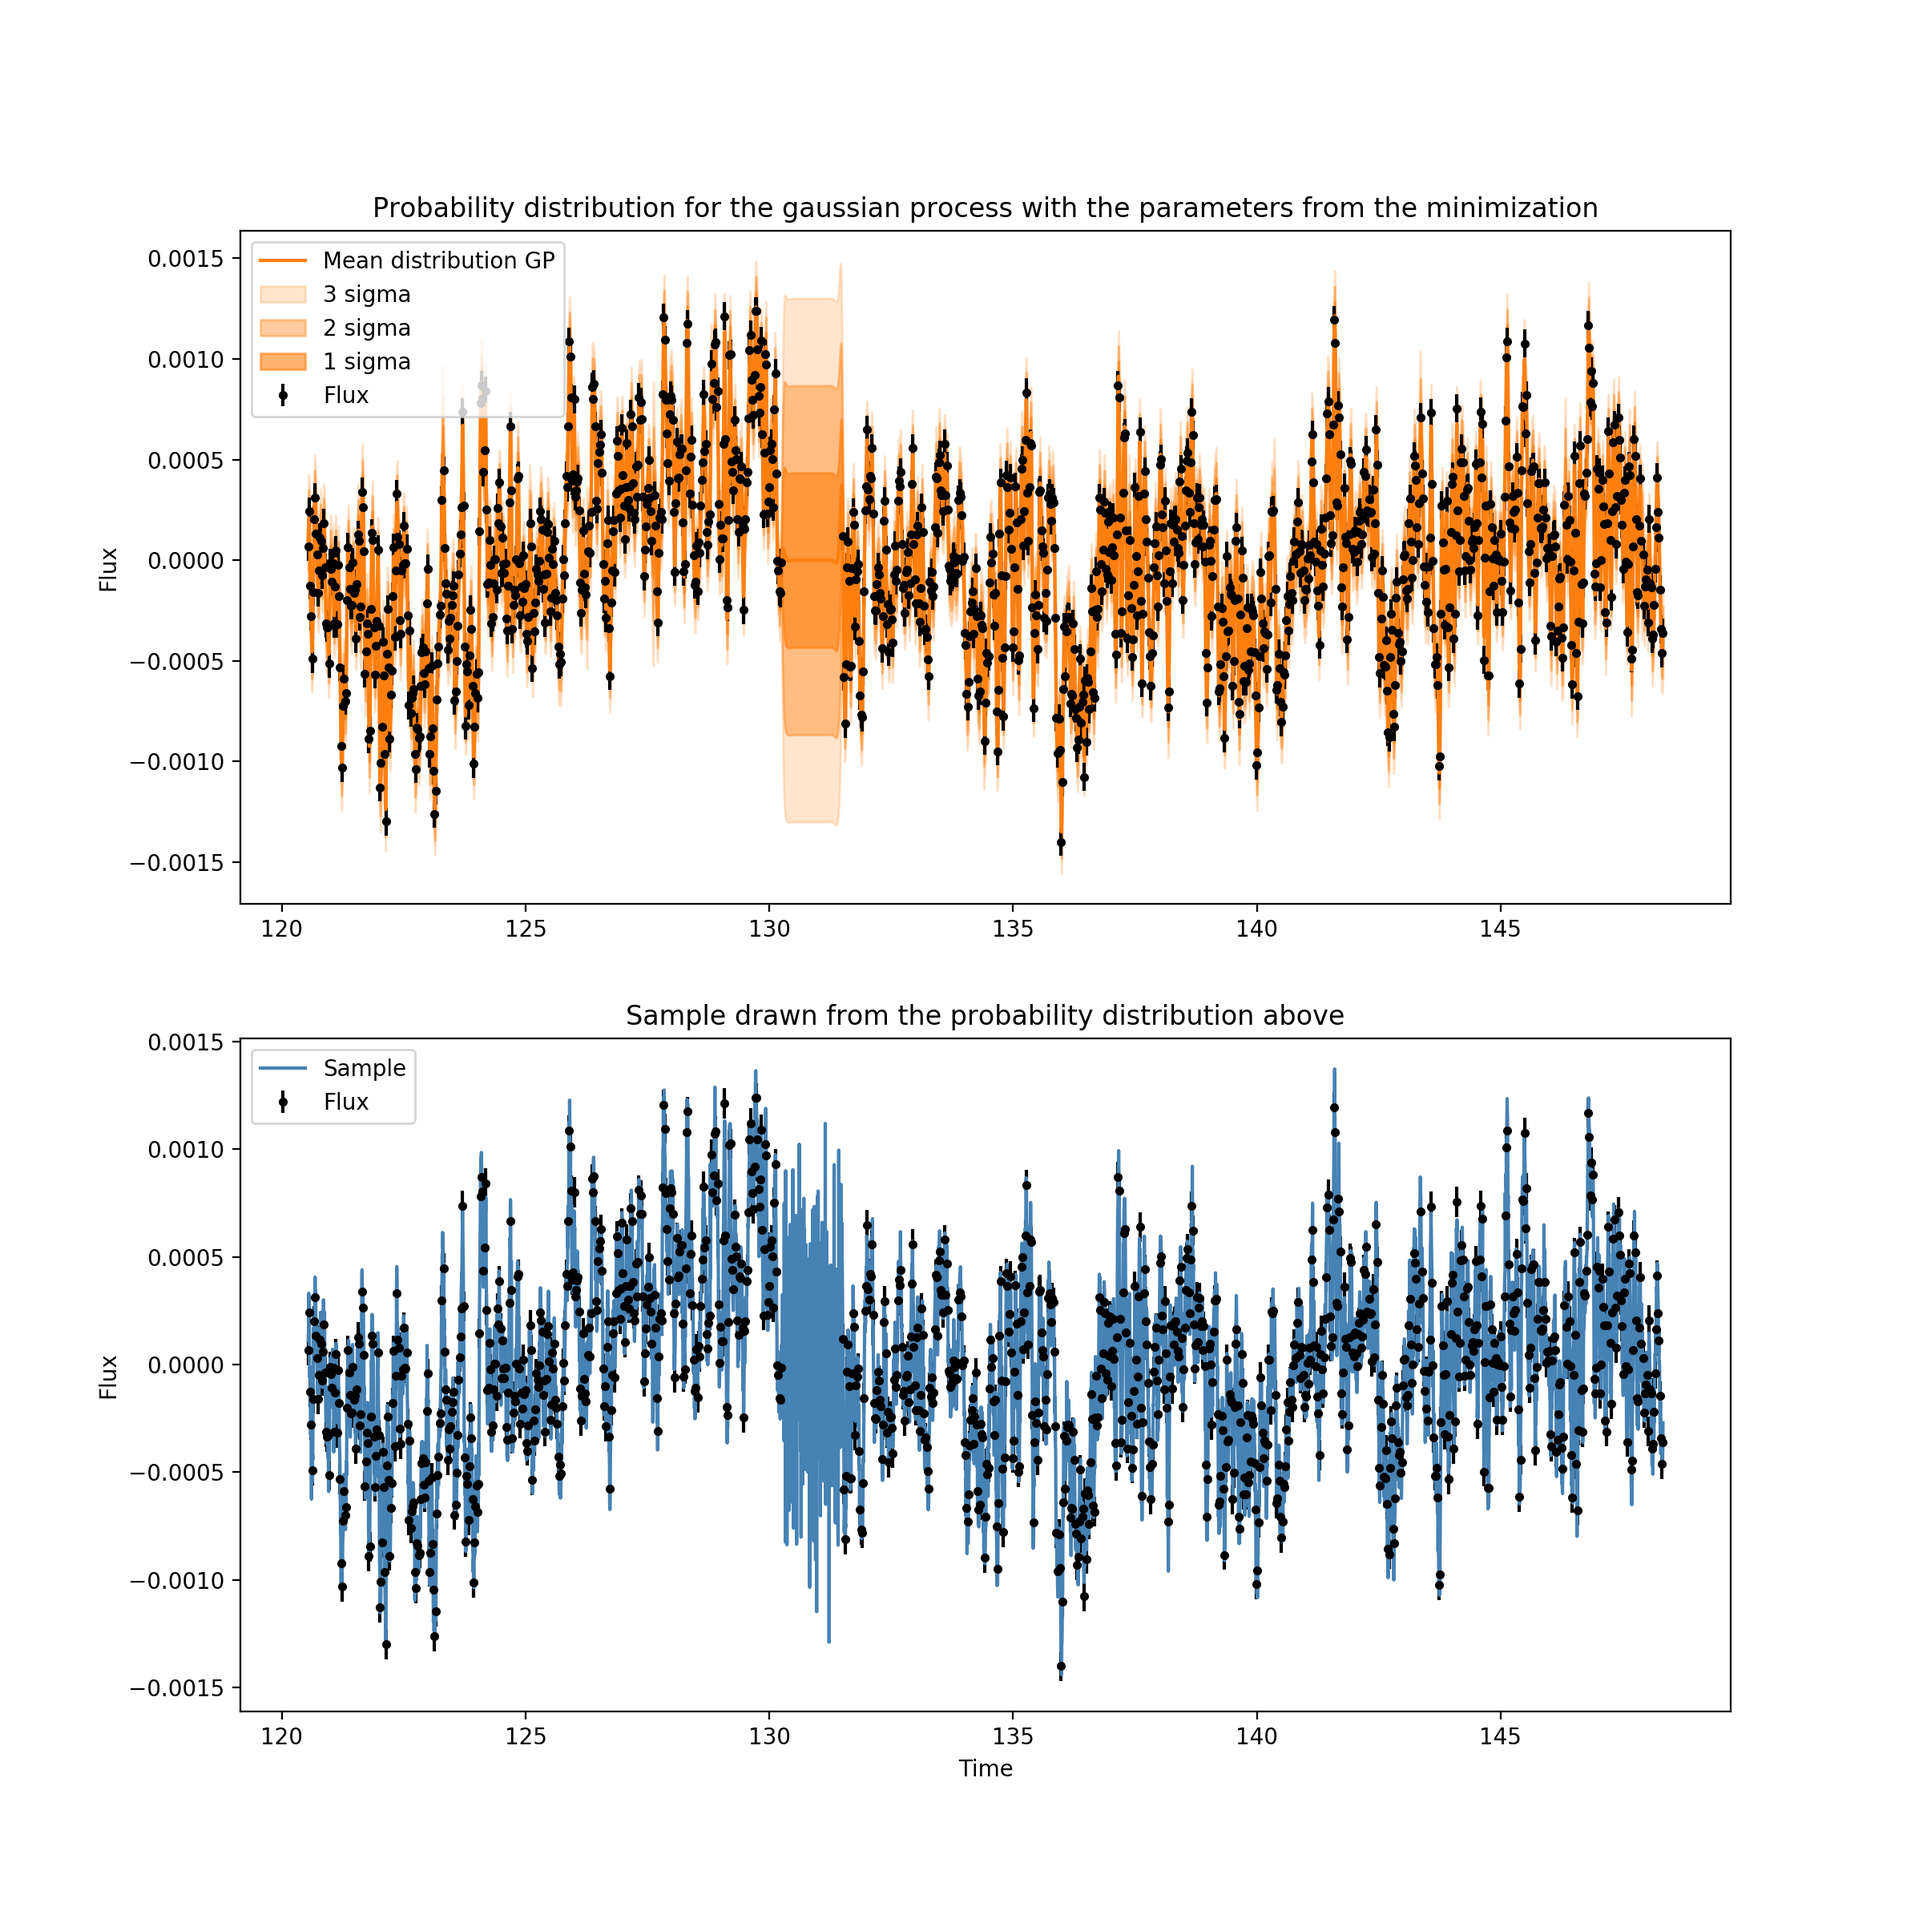
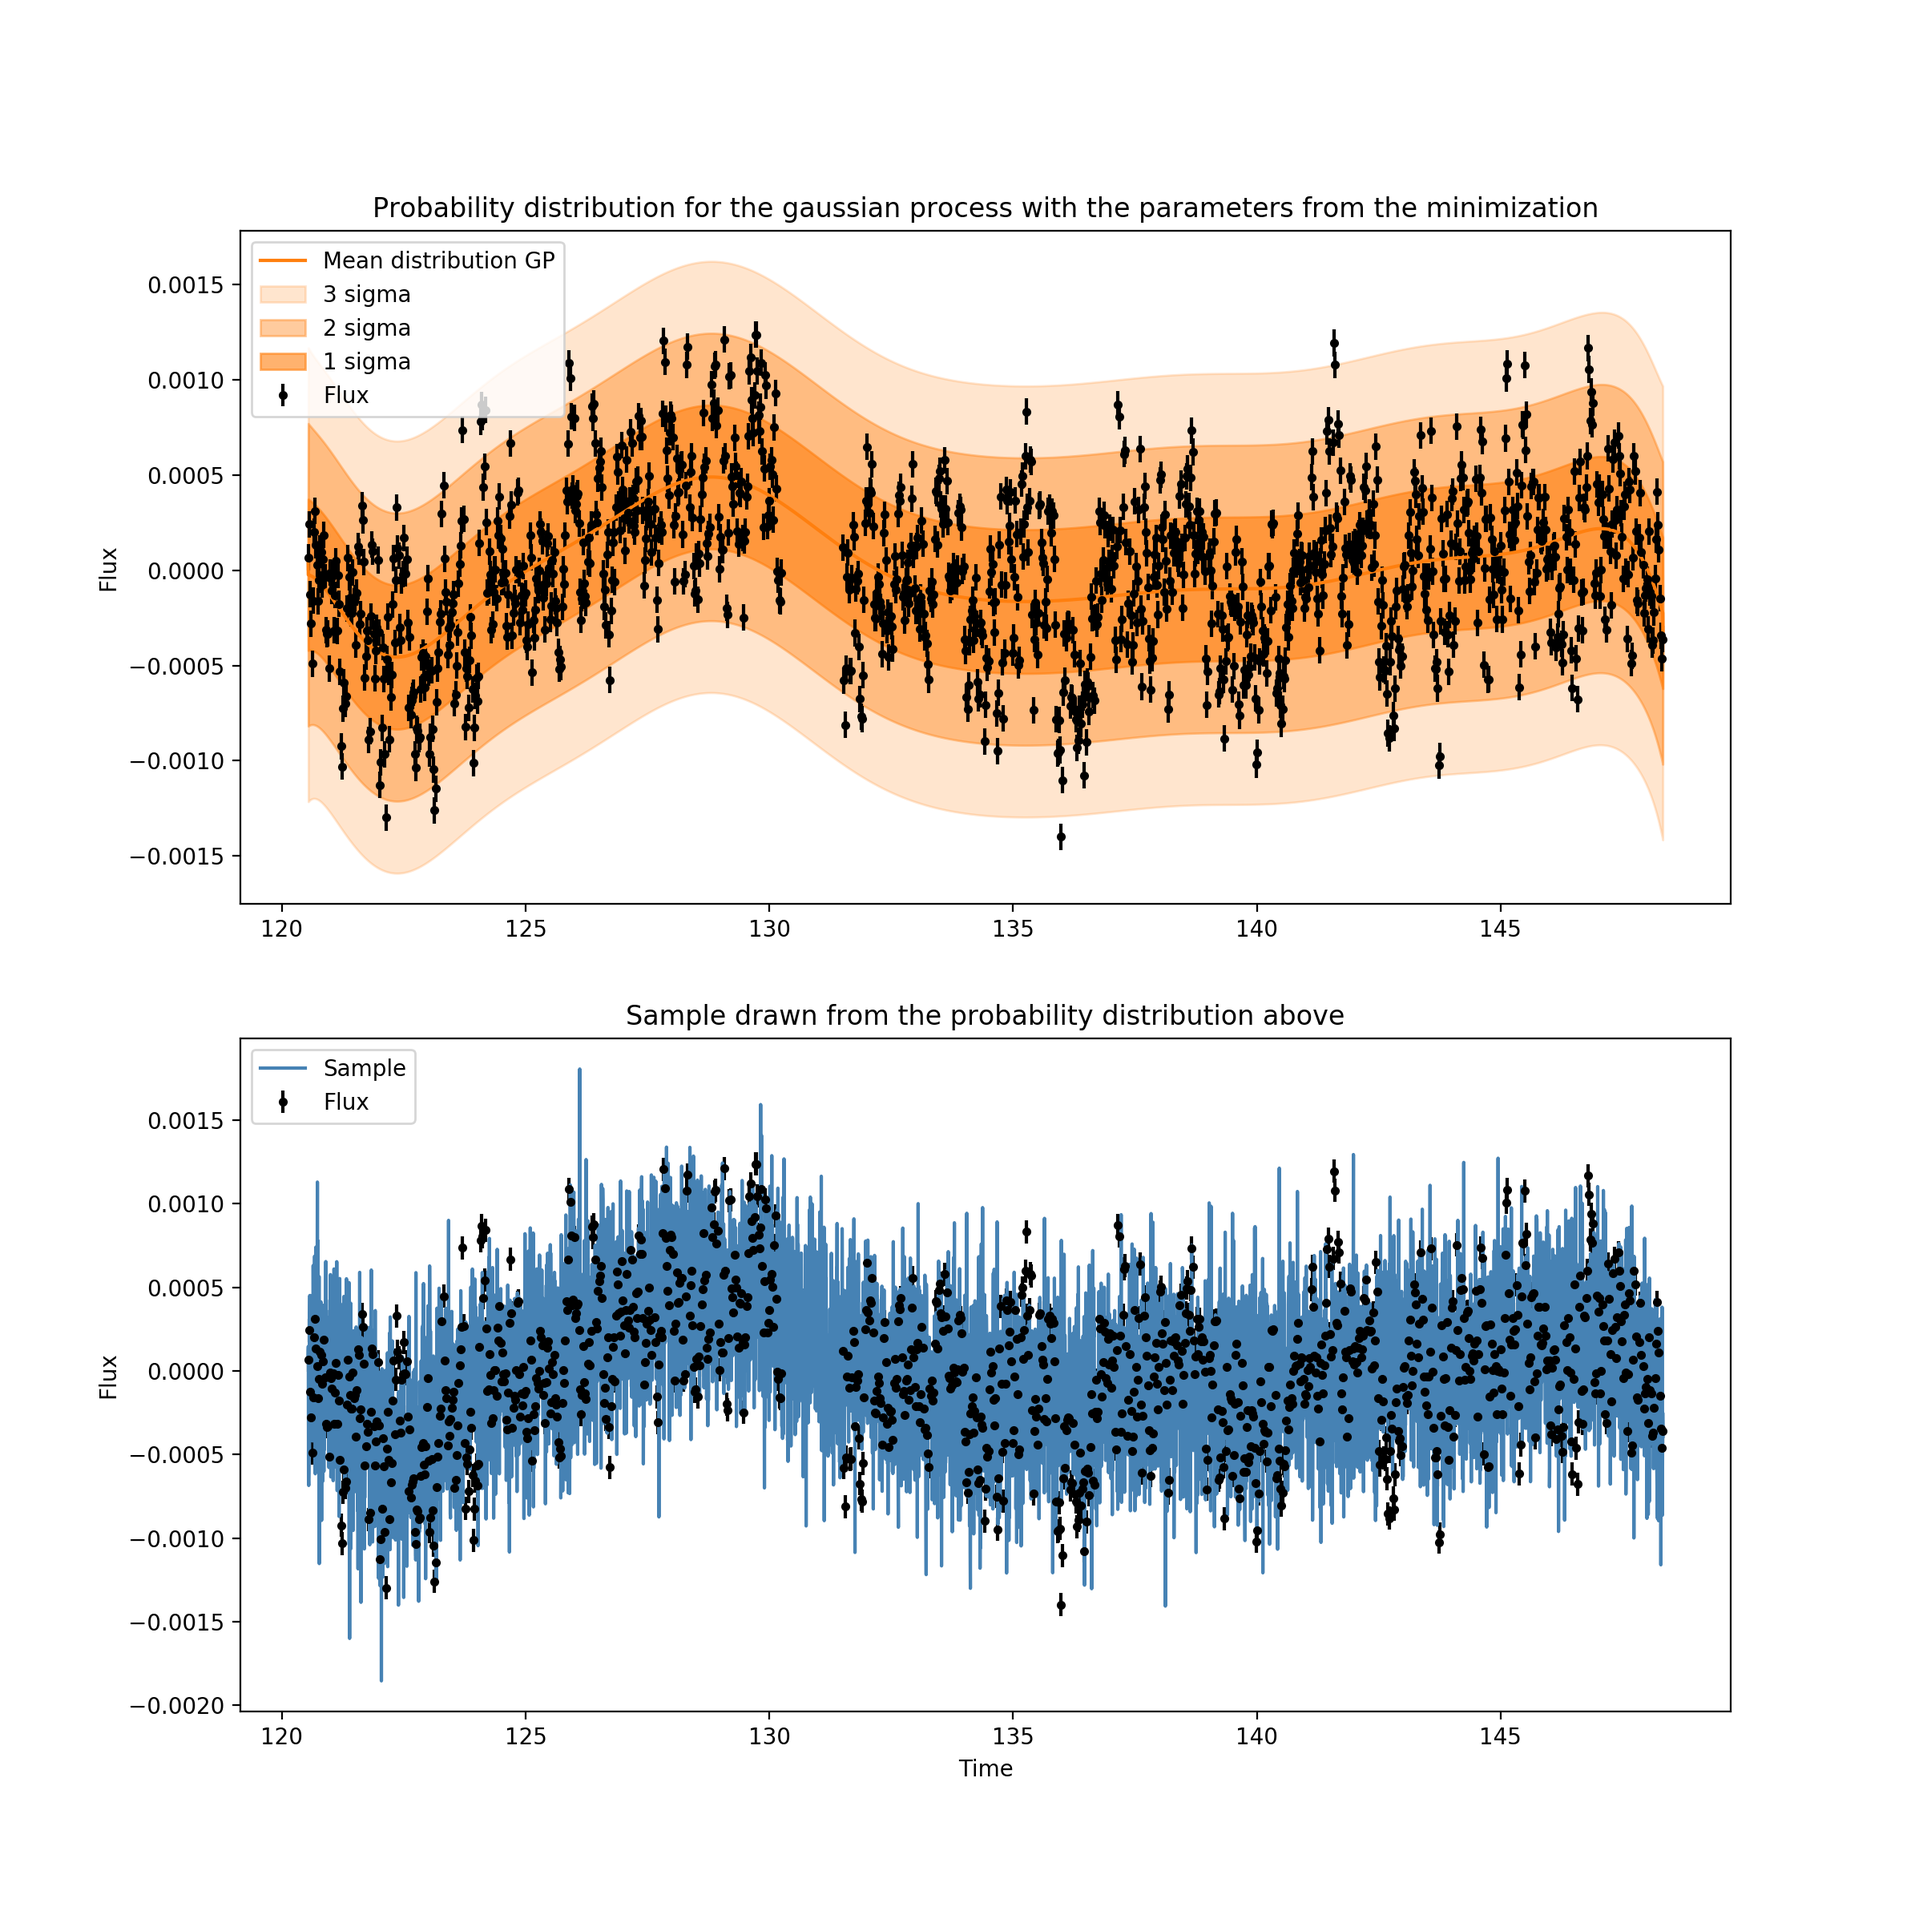
Added Figures of more runs

diff --git a/gp-tests/config_file.py b/gp-tests/config_file.py
@@ -10,15 +10,15 @@ fits_options['error'] = 'SAP_FLUX_ERR'
 # Settings for defining the priors for all parameters
 prior_settings = {}
 prior_settings[0] = ['Amplitude', 'uniform', 0.0, 10.0]
-prior_settings[1] = ['Timescale', 'uniform', 0.0, 0.1]
-#prior_settings[2] = ['Jitter', 'uniform', 0.0, 0.1]
+prior_settings[1] = ['Timescale', 'uniform', 0.0, 10.0]
+prior_settings[2] = ['Jitter', 'uniform', 0.0, 10.0]
 
 # Other parameters
 plot = True
 verbose = True
 
 Nmax = 1300
-module = 'celerite'
+module = 'george'
 
 nwalkers = 20
 burnin = 500
